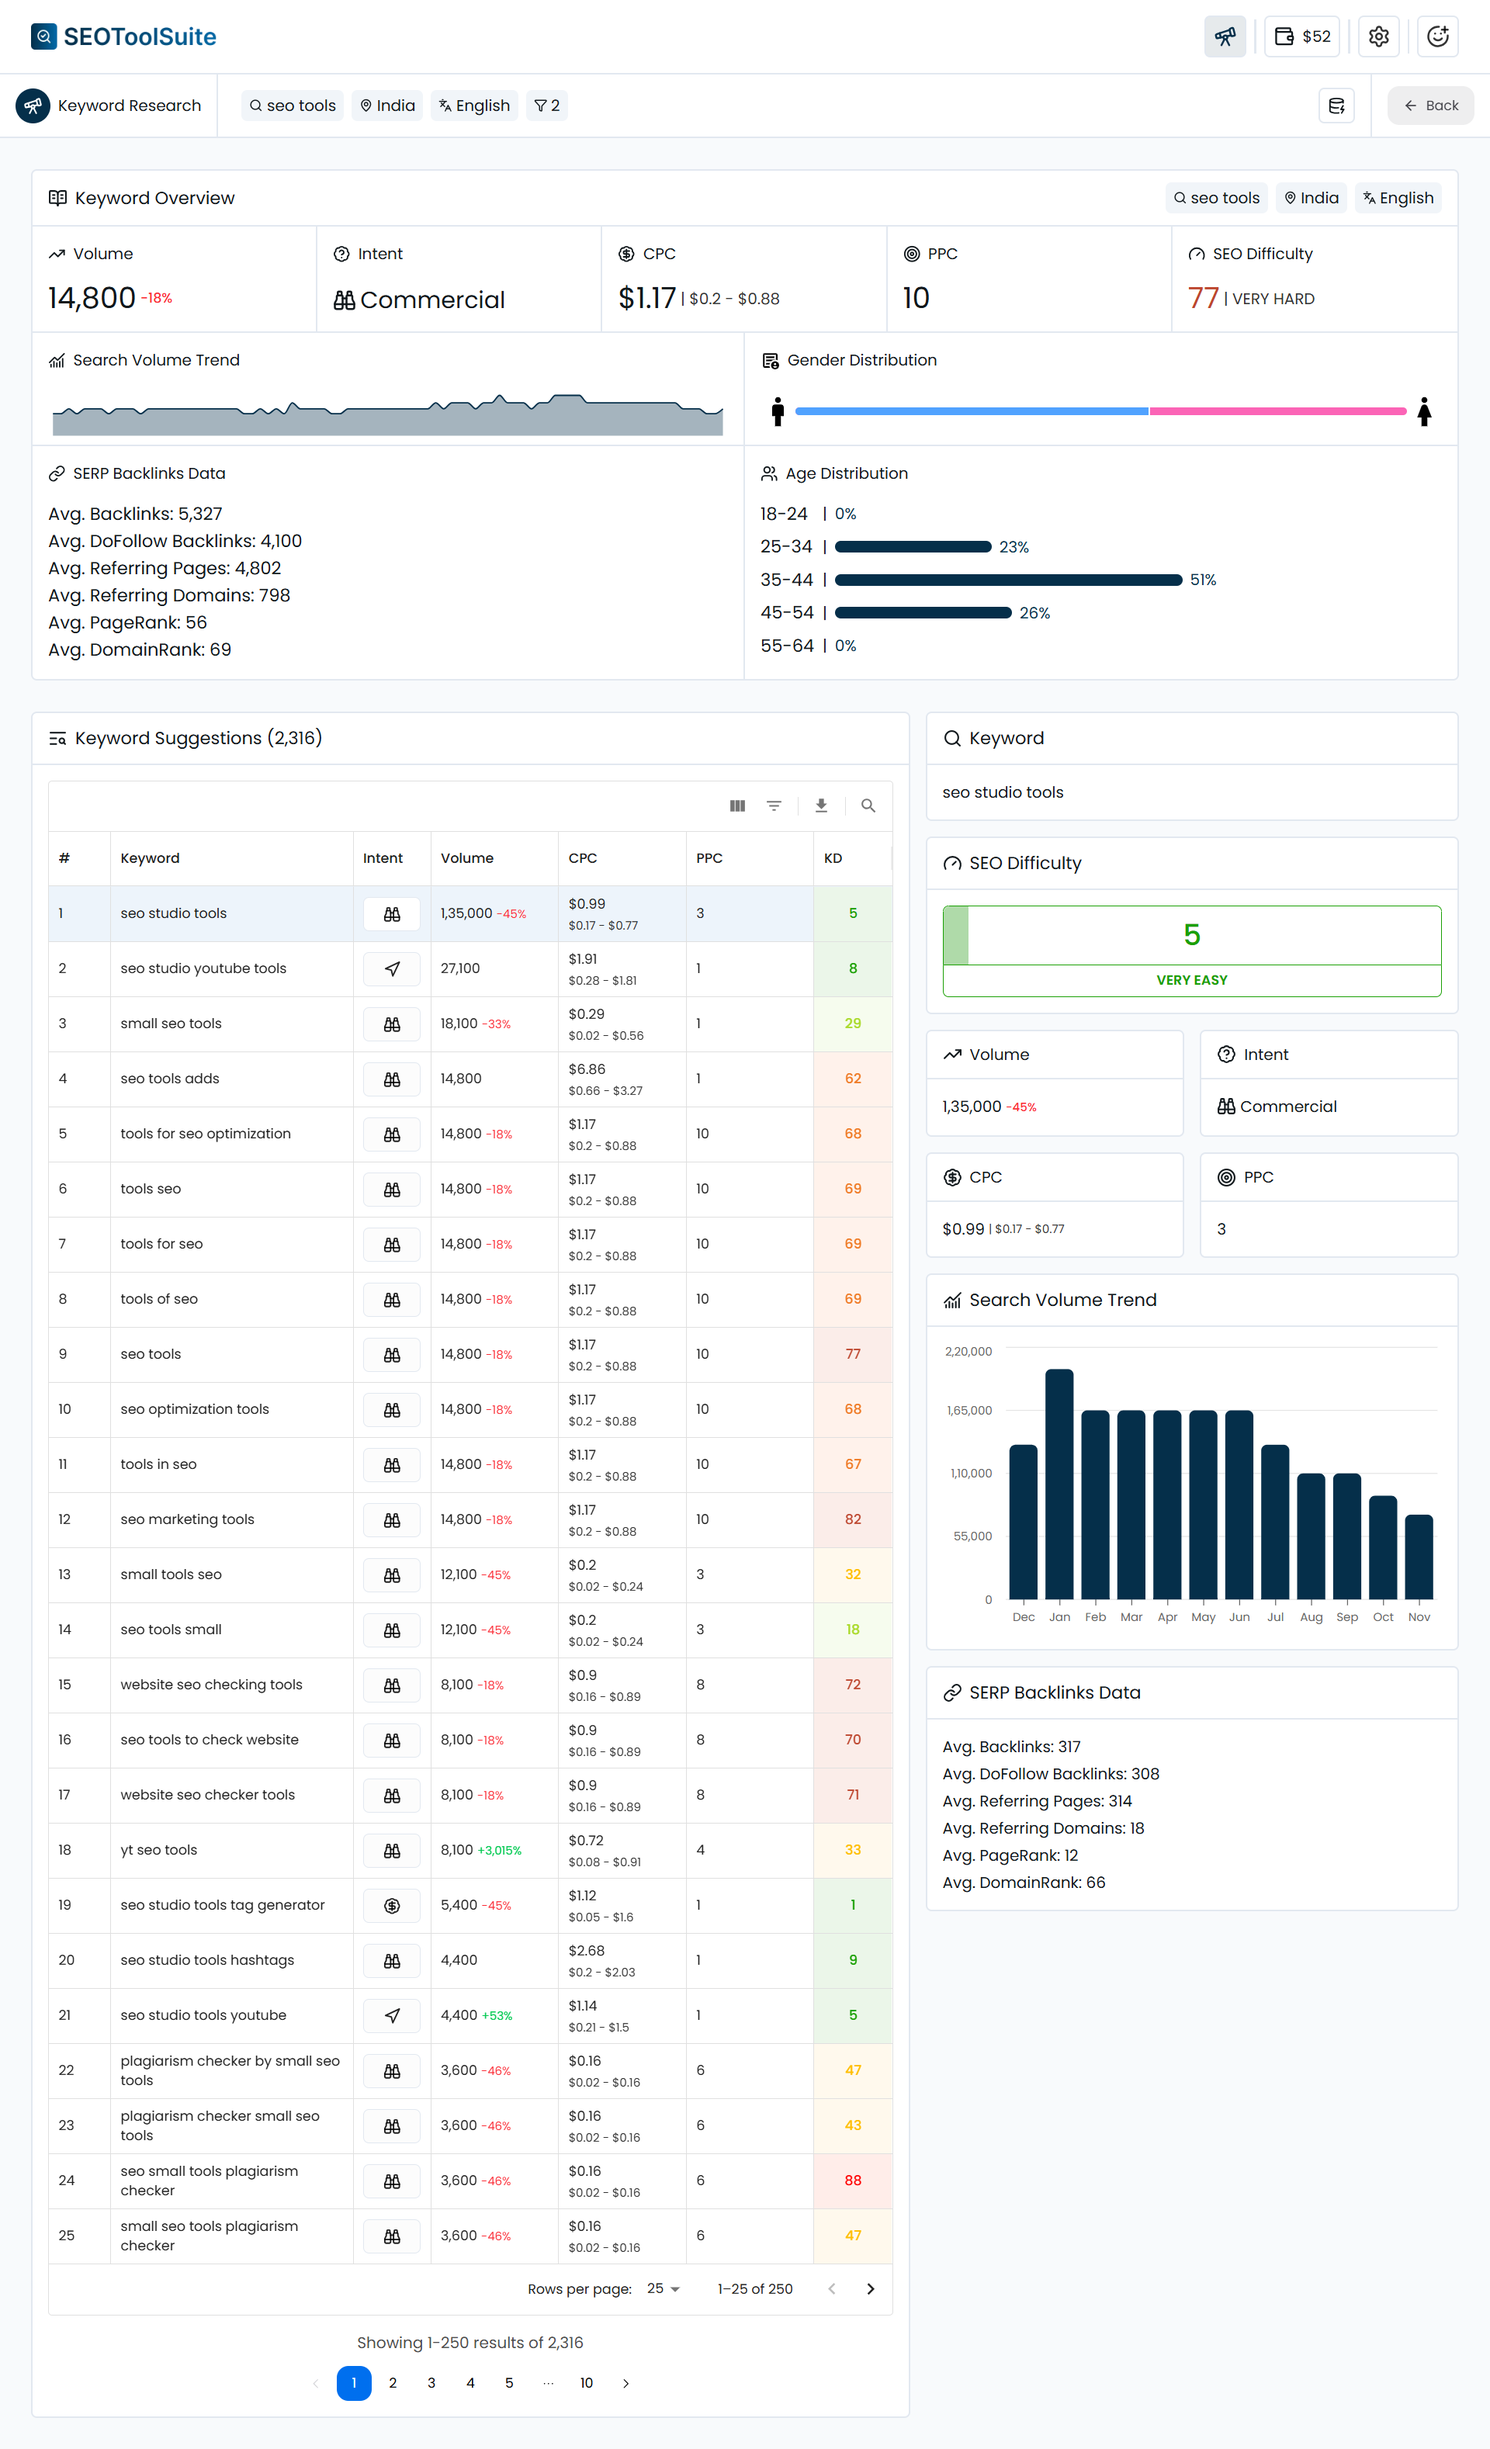
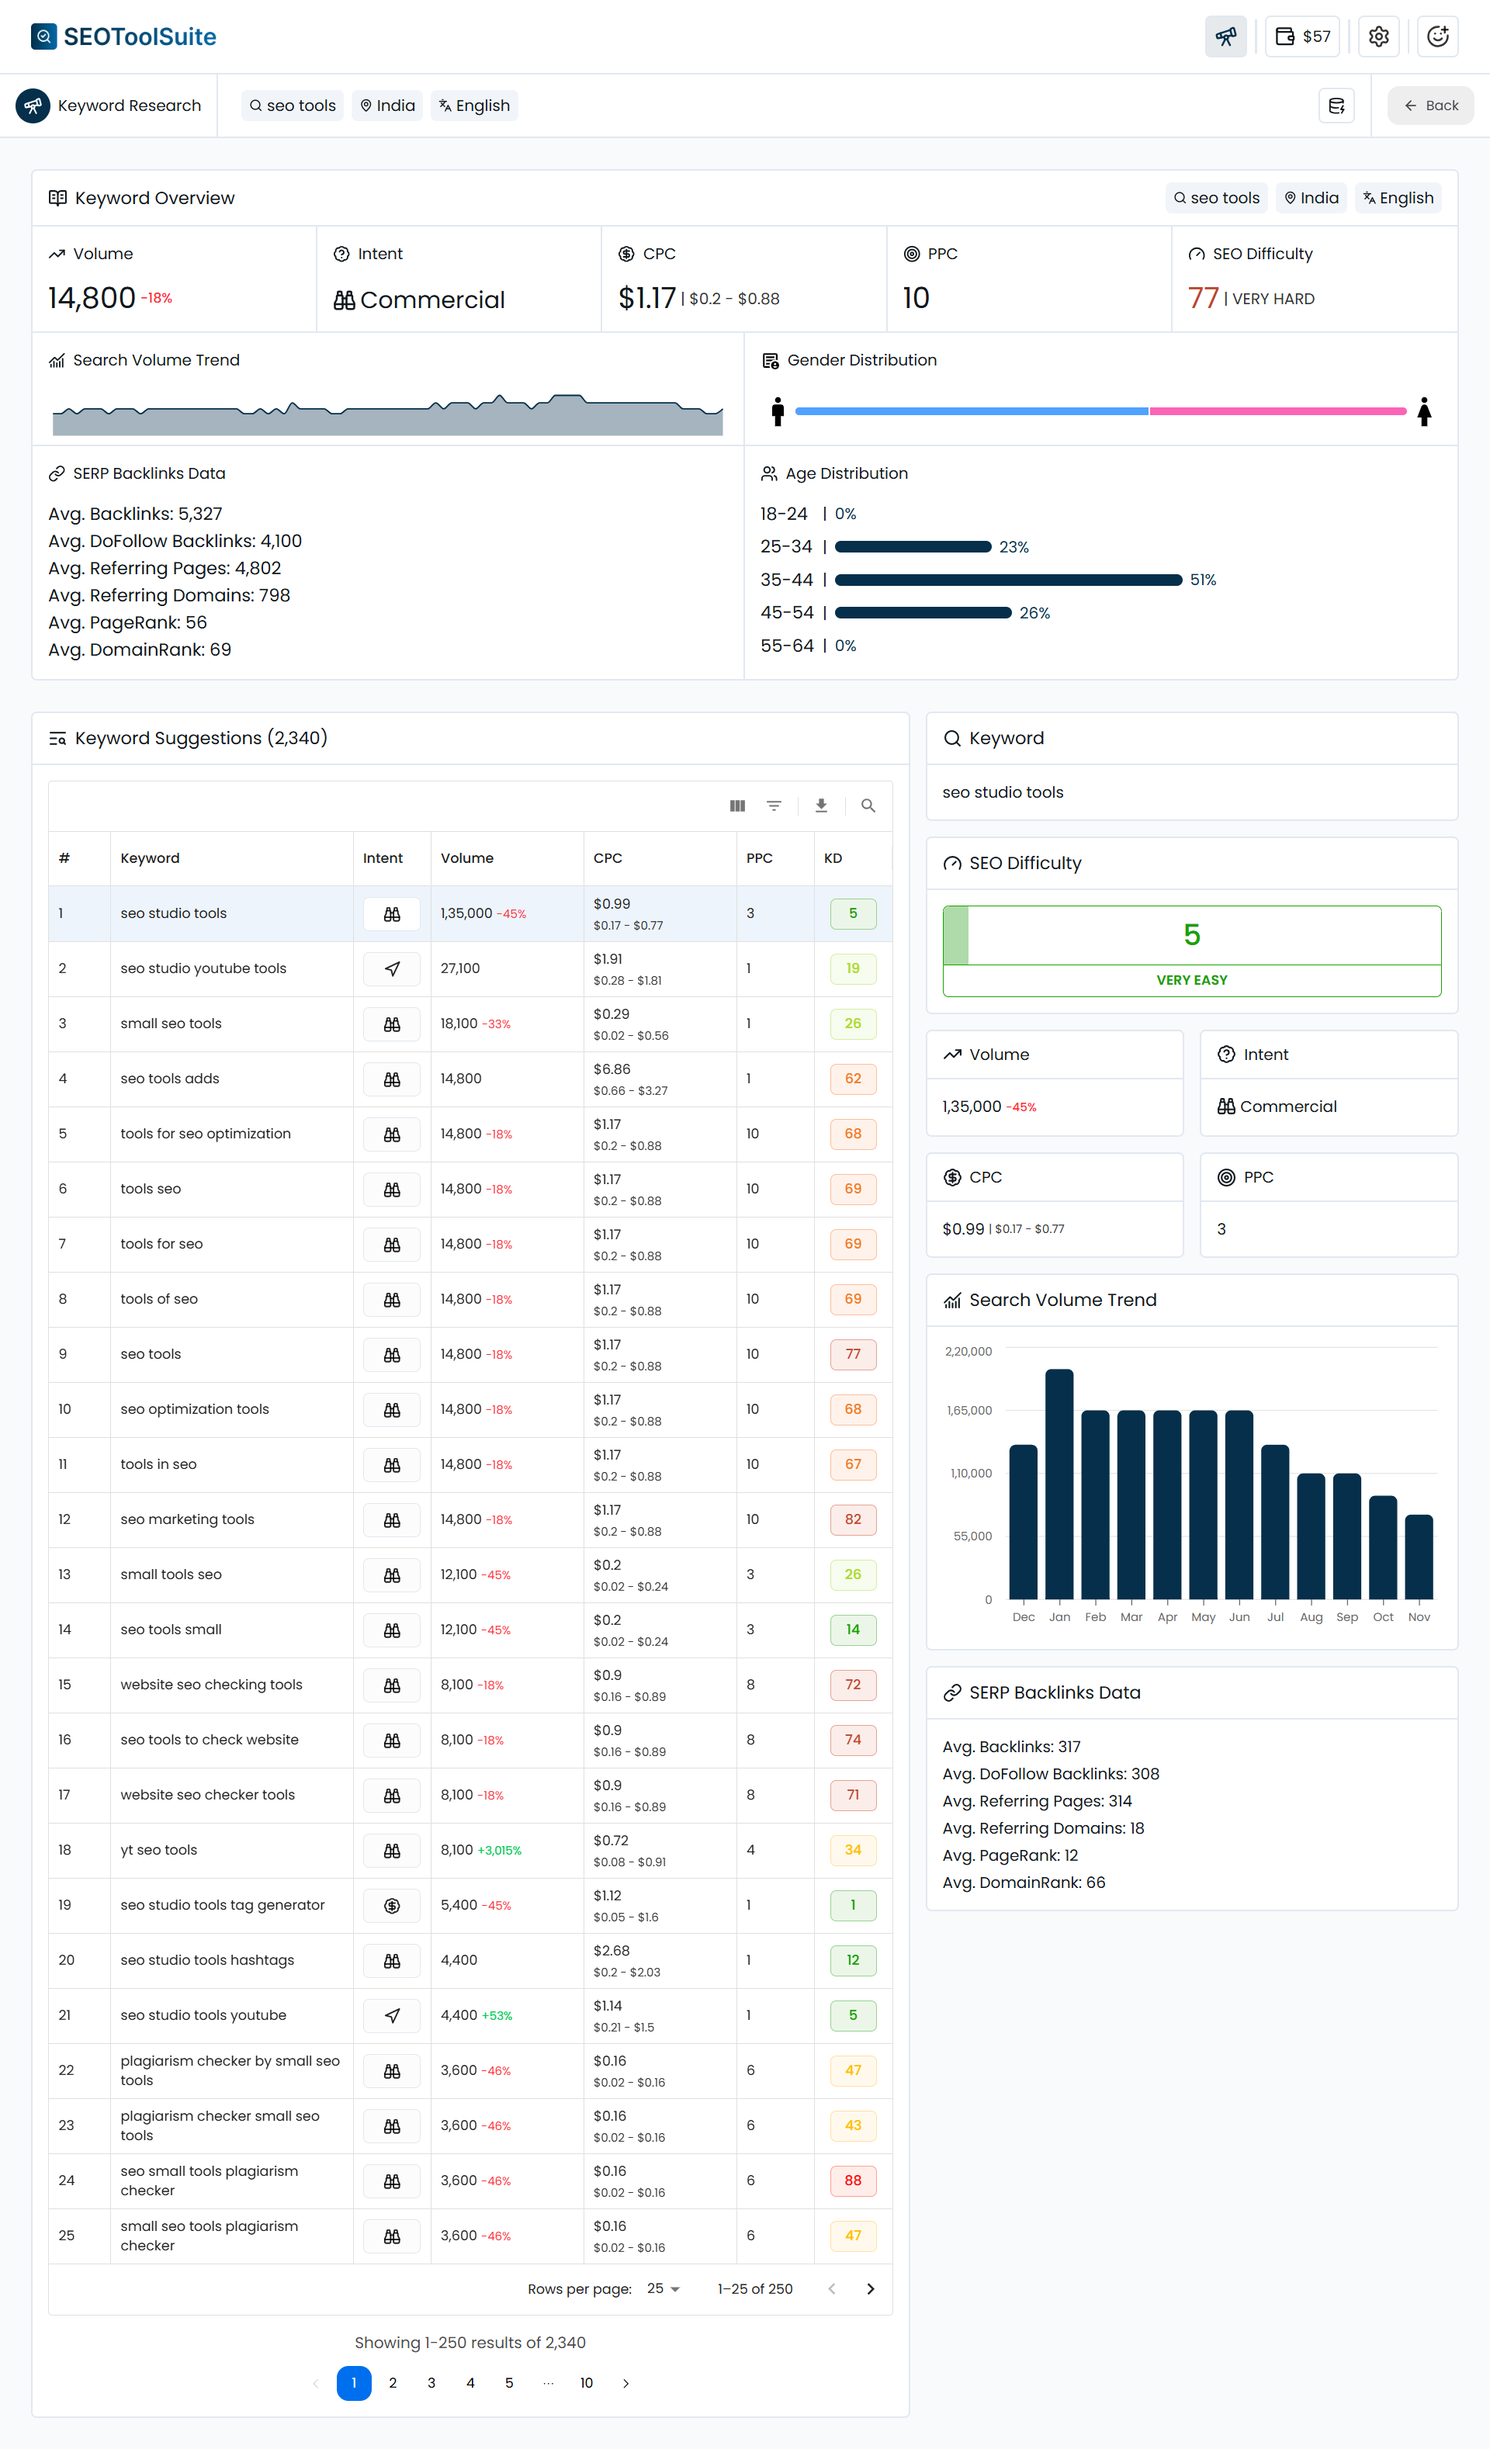
chore: update files for v1.0.4 release

Changed region(s): [[0.375, 0.3416, 0.4375, 0.9316], [0.25, 0.9316, 0.2812, 0.9626]]

diff --git a/src/env/index.ts b/src/env/index.ts
@@ -1,1 +1,1 @@
-export const APP_VERSION: string = "1.0.3";
+export const APP_VERSION: string = "1.0.4";

diff --git a/CHANGELOG.md b/CHANGELOG.md
@@ -1,5 +1,12 @@
 # SEOToolSuite Changelog
 
+## v1.0.4
+
+- Minor UI improvements and fixes.
+- Update styling of KD (SEO Difficulty) column in DataGrid.
+- Homepage UI changes.
+- Update packages.
+
 ## v1.0.3
 
 - Fix **highTopPageBid** metric tooltip typo.
